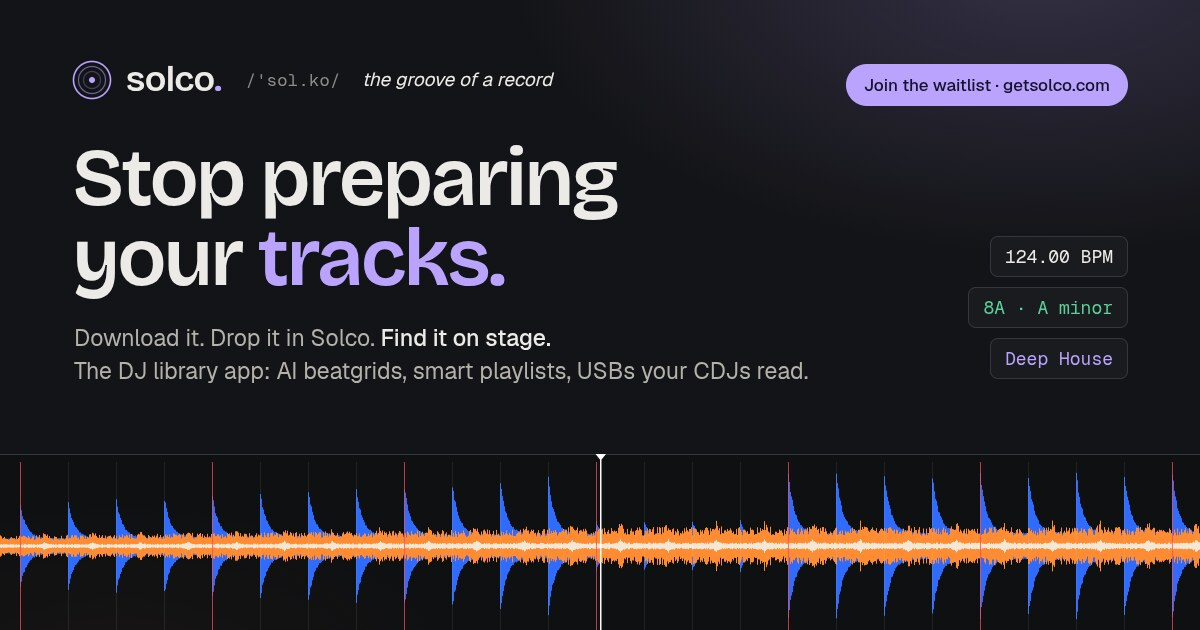
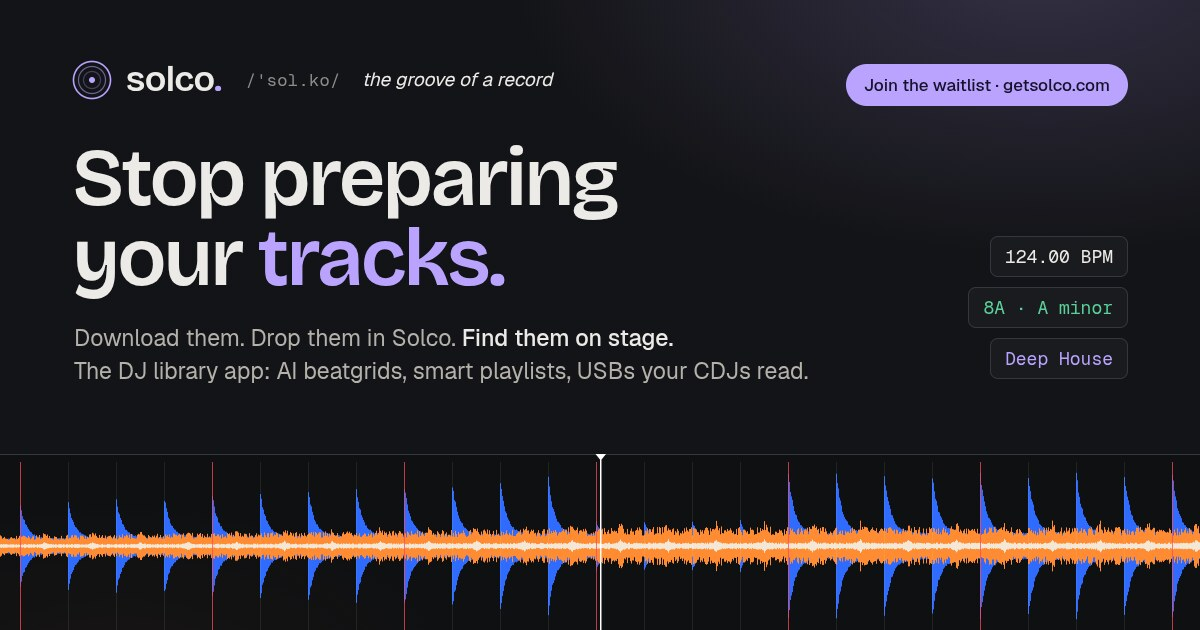
Plainer words: download them, find them on stage; AI tags the genre; tags and covers found by listening; duplicates removed by sound

Changed region(s): [[0.1542, 0.5127, 0.555, 0.573]]

diff --git a/site/index.html b/site/index.html
@@ -4,7 +4,7 @@
 <meta charset="utf-8">
 <meta name="viewport" content="width=device-width, initial-scale=1">
 <title>Solco: stop preparing your tracks. The DJ library app with AI beatgrids and CDJ USB export</title>
-<meta name="description" content="Stop preparing your tracks. Download it, drop it in Solco, find it on stage: AI beatgrids, keys, genre from the sound, smart playlists and USB drives your CDJs read. Private alpha.">
+<meta name="description" content="Stop preparing your tracks. Download them, drop them in Solco, find them on stage: AI beatgrids, keys, genre from the sound, smart playlists and USB drives your CDJs read. Private alpha.">
 <link rel="canonical" href="https://getsolco.com/">
 <meta name="theme-color" content="#0a0b0d" media="(prefers-color-scheme: dark)">
 <meta name="theme-color" content="#f6f5f2" media="(prefers-color-scheme: light)">
@@ -21,7 +21,7 @@
 <meta property="og:image" content="https://getsolco.com/og.png">
 <meta property="og:image:width" content="1200">
 <meta property="og:image:height" content="630">
-<meta property="og:image:alt" content="Solco. Stop preparing your tracks. Download it, drop it in Solco, find it on stage. A blue and orange waveform with its beatgrid, 124.00 BPM, 8A A minor, Deep House.">
+<meta property="og:image:alt" content="Solco. Stop preparing your tracks. Download them, drop them in Solco, find them on stage. A blue and orange waveform with its beatgrid, 124.00 BPM, 8A A minor, Deep House.">
 <meta name="twitter:card" content="summary_large_image">
 <meta name="twitter:title" content="Solco: stop preparing your tracks.">
 <meta name="twitter:description" content="The DJ library app that grids, keys, sorts and tags every download, then writes the USB your CDJs read. No rekordbox needed.">
@@ -56,7 +56,7 @@
       <div>
         <p class="kicker reveal">DJ library app · Private alpha</p>
         <h1 class="display reveal"><span>Stop preparing</span><span>your tracks<i class="dot" aria-hidden="true"></i></span></h1>
-        <p class="hero-steps reveal">Download&nbsp;it. Drop&nbsp;it&nbsp;in&nbsp;Solco. Find&nbsp;it&nbsp;<span class="scale">on&nbsp;stage</span>.</p>
+        <p class="hero-steps reveal">Download&nbsp;them. Drop&nbsp;them&nbsp;in&nbsp;Solco. Find&nbsp;them&nbsp;<span class="scale">on&nbsp;stage</span>.</p>
         <p class="lead reveal"><b>Solco does it for you.</b> It grids every track you add, keys it, hears its genre and character, fixes its tags and files it into smart playlists. Then it writes the USB drive your CDJs read, no rekordbox needed. Keep doing any of it by hand if you like. <b>You just don't have to anymore.</b></p>
         <button class="film-btn reveal" type="button" data-film-open aria-haspopup="dialog"><span class="film-play" aria-hidden="true"><svg viewBox="0 0 24 24"><path d="M8 5.5v13l11-6.5z"/></svg></span>Watch the 60-second film</button>
       </div>
@@ -161,10 +161,10 @@
         <p class="step-tag reveal"><i>3</i>Genre</p>
         <p class="poster reveal" aria-label="House, crossed out. Disco."><s>House.</s><br>Disco.</p>
         <div class="field-cols">
-          <div><h2 class="field-h reveal">Genre heard from the sound, not the tags.</h2><p class="lead reveal">Solco hears what a track is, even when its tag is wrong or empty. Keep the style in its own field, or write it into the genre tag.</p></div>
+          <div><h2 class="field-h reveal">AI listens and tags the genre for you.</h2><p class="lead reveal">It runs on your computer and hears what a track is, even when its tag is wrong or empty. Then it writes the genre tag, if you want.</p></div>
           <ul class="points reveal">
-            <li><b>Heard, not read.</b> Disco, Deep House, Ambient, Techno and hundreds of styles in between.</li>
-            <li><b>Found as what it is.</b> A track that sounds like disco turns up as disco.</li>
+            <li><b>Hundreds of styles.</b> Disco, Deep House, Ambient, Techno and everything in between.</li>
+            <li><b>Tagged by listening.</b> A track that sounds like disco is tagged disco.</li>
             <li><b>Your call.</b> Nothing is written to a file until you say so.</li>
           </ul>
         </div>
@@ -198,7 +198,7 @@
       <article class="chapter" id="tags" data-step="5">
         <header class="ch-head">
           <p class="step-tag reveal"><i>6</i>Tags and cover</p>
-          <h2 class="reveal">Tags and covers, fixed by ear.</h2>
+          <h2 class="reveal">Tags and covers, found by listening.</h2>
           <p class="lead reveal">Solco recognises each track by its audio fingerprint, finds it in MusicBrainz and Discogs, and proposes the right title, album, year and cover. Confident matches go in with one click. The rest wait for you, field by field.</p>
         </header>
         <div class="stage shell reveal-frame" data-demo="tags" role="img" aria-label="Tags: the review panel compares In your file with Proposed for At Midnight by T-Connection. Apply 214 confident is pressed and every row turns to Tagged."></div>
@@ -212,7 +212,7 @@
       <article class="chapter" id="dupes" data-step="6">
         <header class="ch-head">
           <p class="step-tag reveal"><i>7</i>Duplicates</p>
-          <h2 class="reveal">One copy of every record.</h2>
+          <h2 class="reveal">Finds and removes every duplicate, by sound.</h2>
           <p class="lead reveal">Solco recognises the same recording by its sound, even under another name in another folder. It keeps the copy in your library, shows exactly what goes, and asks first.</p>
         </header>
         <div class="stage shell reveal-frame" data-demo="duplicates" role="img" aria-label="Duplicates: three recordings found in more than one place. After confirmation, the extra copies go to the trash and the kept copies keep their playlists and cues."></div>
@@ -222,9 +222,9 @@
         <p class="step-tag reveal"><i>8</i>On the USB</p>
         <p class="poster reveal">Plays on CDJs.<br>No rekordbox.</p>
         <div class="field-cols">
-          <div><h2 class="field-h reveal">Solco writes the USB your CDJs and XDJs read directly.</h2><p class="lead reveal">Tick your playlists, plug in a drive, and it writes the rekordbox USB format that Pioneer players read. No laptop in the booth.</p></div>
+          <div><h2 class="field-h reveal">Solco writes the USB your CDJs and XDJs read directly.</h2><p class="lead reveal">Pick your playlists, plug in a drive, and Solco writes the rekordbox USB format that Pioneer players read. No laptop in the booth.</p></div>
           <ul class="points reveal">
-            <li><b>All of it lands.</b> Grids, hot cues, memory cues, waveforms, artwork and playlists.</li>
+            <li><b>Everything on the USB.</b> Grids, hot cues, memory cues, waveforms, artwork and playlists.</li>
             <li><b>Only adds and changes.</b> Nothing on the drive is removed.</li>
             <li><b>Keeps your history.</b> The sets you played on it stay.</li>
             <li><b>Shows what is there.</b> Tracks already on the drive are marked.</li>
@@ -234,7 +234,7 @@
           <div class="stage shell reveal-frame" data-demo="exportDemo" role="img" aria-label="Export: four playlists are ticked and exported to the USB drive FRIDAY. 187 added, 142 already on the drive, nothing removed."></div>
           <figure class="booth reveal-frame">
             <div class="stage lcd-shell" data-demo="player" data-after="exportDemo" role="img" aria-label="A club player's screen browsing FRIDAY: Disco Night, DN 1 Warm and Funky, with BPM and key for each track."></div>
-            <figcaption>In the booth, the player reads it.</figcaption>
+            <figcaption>On stage, it's all easy to find.</figcaption>
           </figure>
         </div>
       </article>
@@ -336,16 +336,16 @@
   <section class="final" aria-labelledby="final-h" data-final>
     <div class="wrap final-grid">
       <div>
-        <h2 id="final-h" class="reveal"><span>Download it.</span><span>Drop it in Solco.</span><span>Find it on stage.</span></h2>
+        <h2 id="final-h" class="reveal"><span>Download them.</span><span>Drop them in Solco.</span><span>Find them on stage.</span></h2>
         <p class="lead reveal">Solco is in private alpha for macOS on Apple Silicon, Windows and Linux. Join the waitlist, and I will write when there is a seat for you.</p>
         <a class="btn-cta reveal" href="#waitlist" data-join>Join the waitlist <svg viewBox="0 0 24 24" aria-hidden="true"><path d="M12 19V5M5 12l7-7 7 7"/></svg></a>
       </div>
       <div class="flow" aria-hidden="true" data-flow>
-        <div class="flow-node n1"><div class="flow-ico file"><svg viewBox="0 0 24 24"><path d="M14 3H7a2 2 0 0 0-2 2v14a2 2 0 0 0 2 2h10a2 2 0 0 0 2-2V8z"/><path d="M14 3v5h5"/><circle cx="10" cy="16" r="2"/><path d="M12 16v-5l3 1"/></svg></div><b>Download it</b><span>Glad To Know You.flac</span></div>
+        <div class="flow-node n1"><div class="flow-ico file"><svg viewBox="0 0 24 24"><path d="M14 3H7a2 2 0 0 0-2 2v14a2 2 0 0 0 2 2h10a2 2 0 0 0 2-2V8z"/><path d="M14 3v5h5"/><circle cx="10" cy="16" r="2"/><path d="M12 16v-5l3 1"/></svg></div><b>Download them</b><span>Glad To Know You.flac</span></div>
         <div class="flow-wire w1"><i></i></div>
         <div class="flow-node n2"><div class="flow-ico mark"><svg><use href="#mark"/></svg></div><b>Solco</b><span class="reads"><em>116.01 BPM</em><em style="color:hsl(305 50% 68%)">6B</em><em>Disco</em></span></div>
         <div class="flow-wire w2"><i></i></div>
-        <div class="flow-node n3"><div class="flow-ico usb"><div class="stick"><i class="led"></i></div></div><b>Find it on stage</b><span>FRIDAY · Disco Night</span></div>
+        <div class="flow-node n3"><div class="flow-ico usb"><div class="stick"><i class="led"></i></div></div><b>Find them on stage</b><span>FRIDAY · Disco Night</span></div>
       </div>
     </div>
   </section>

diff --git a/og/og.html b/og/og.html
@@ -54,7 +54,7 @@
   <div class="cta">Join the waitlist · getsolco.com</div>
 
   <h1>Stop preparing<br>your <em>tracks.</em></h1>
-  <p class="sub">Download it. Drop it in Solco. <b>Find it on stage.</b><br>The DJ library app: AI beatgrids, smart playlists, USBs your CDJs read.</p>
+  <p class="sub">Download them. Drop them in Solco. <b>Find them on stage.</b><br>The DJ library app: AI beatgrids, smart playlists, USBs your CDJs read.</p>
 
   <div class="readouts">
     <span class="chip">124.00 BPM</span>
